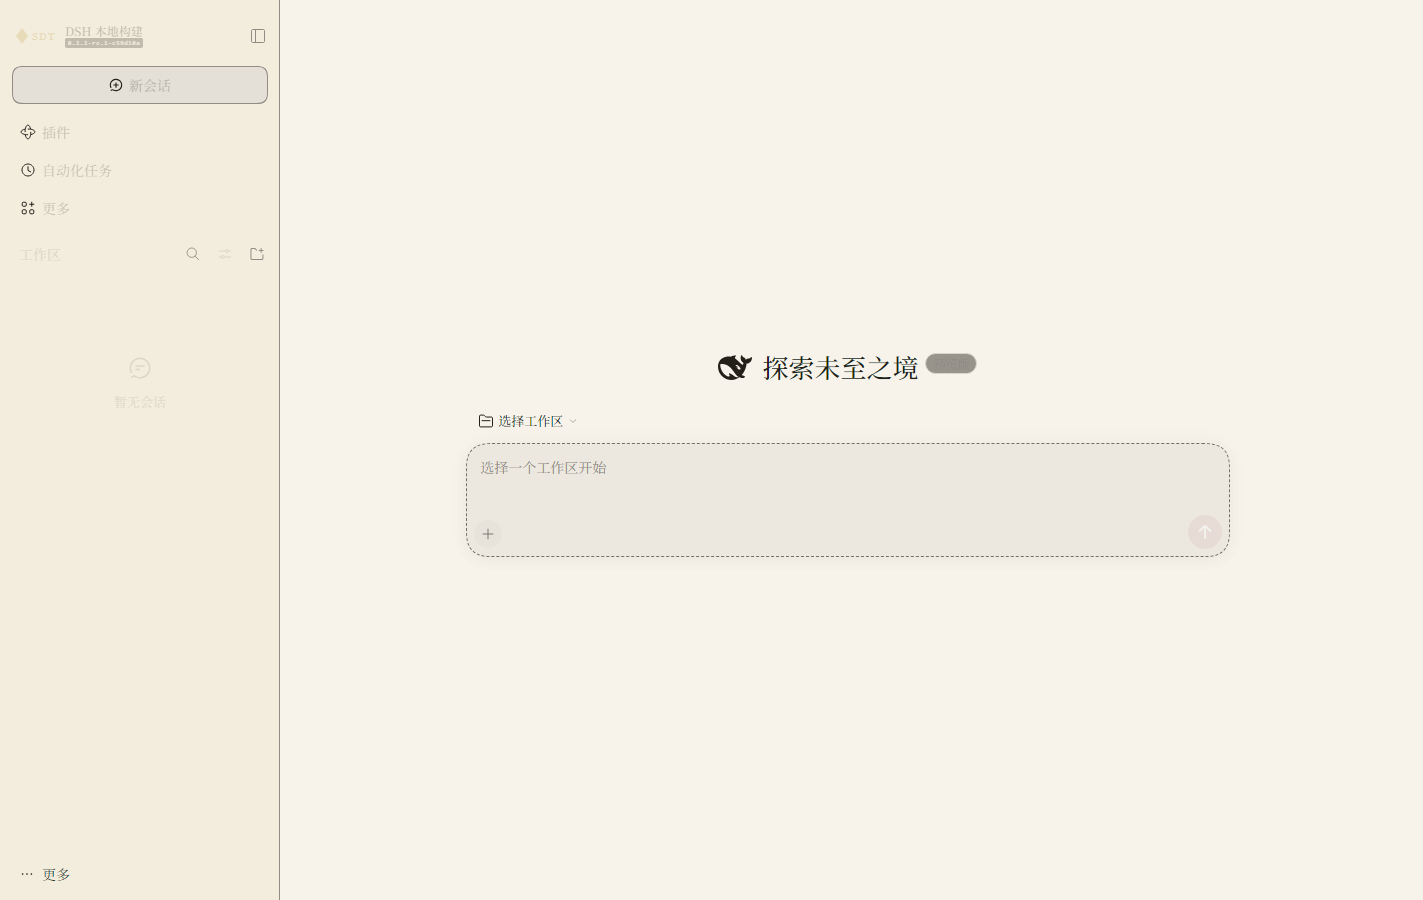
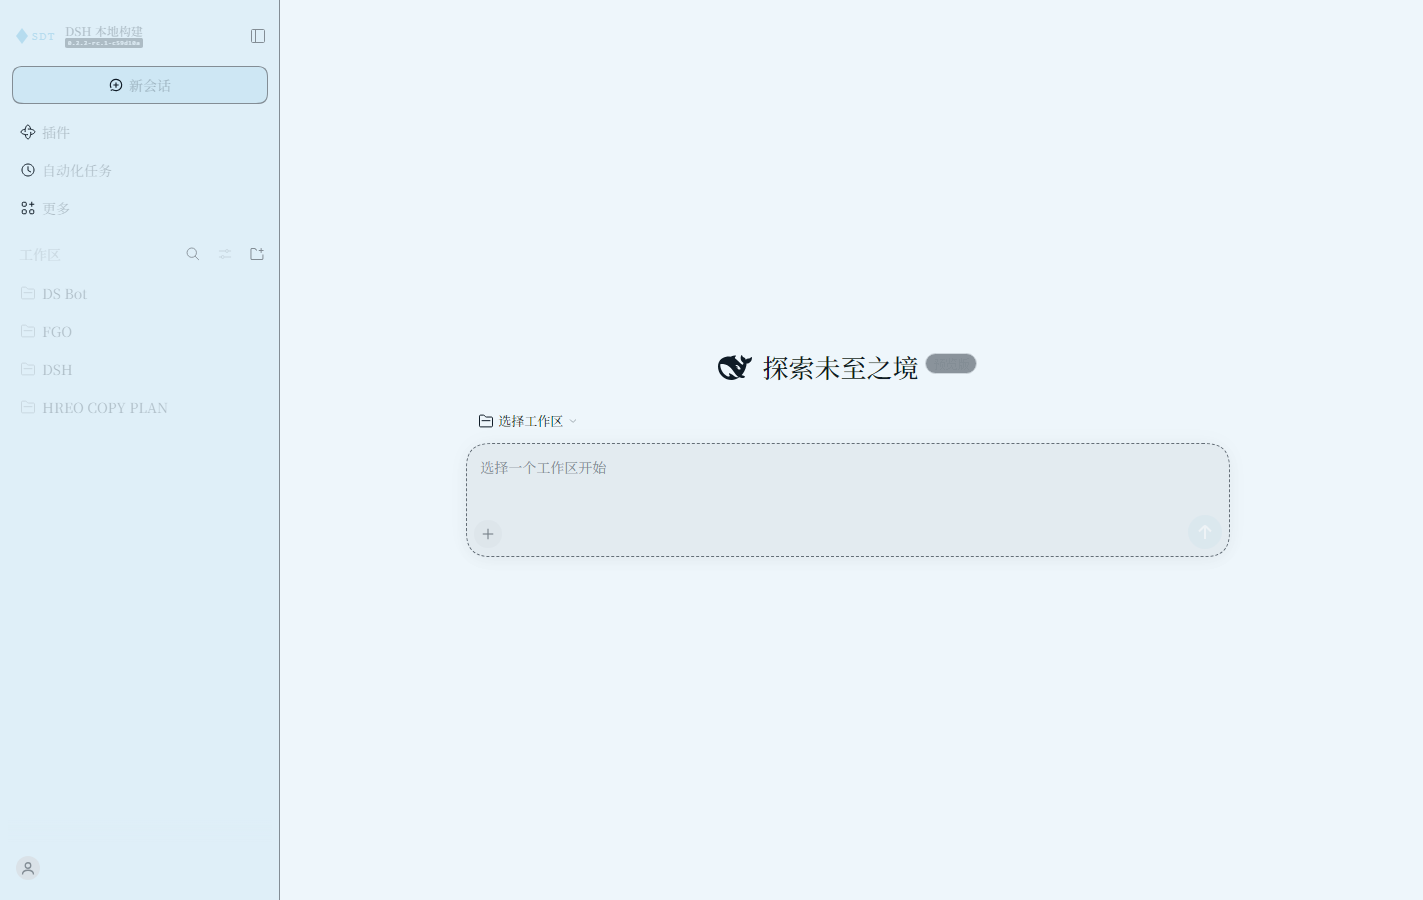
feat(v1.4): 配色修正 —— 金色主色改为蓝青主色（对齐 FGO 界面语汇）
- 色板：brand #37a3d6 / accent #1f6fa8 / bgDark #0a1626 / bgLight #eef6fb
- 按钮表面（elevated/floating/tool-bar/hover/active）由中性灰改青蓝浅染
- 菱格底纹 0.06 -> 0.09；金色降级为可选框线（此前把金当主色是判断错误）
- 截图更新（深/浅各一张，1423x900）；覆盖仍 133/133；自验证 7/7
- 计划顺延：L3/图标/设置卡 -> v1.5；覆盖层 -> v1.6；开屏/壁纸/皮肤中心/安全 -> v1.7

Changed region(s): [[0.0, 0.0, 0.2164, 1.0], [0.8349, 0.56, 0.8658, 0.6222]]

diff --git a/plugin/client.js b/plugin/client.js
@@ -39,9 +39,12 @@ window.__ModuleLoader__.load({
     const BASELINE_TOKENS = ["--dsw-alias-bg-base", "--dsw-alias-bg-document-preview", "--dsw-alias-bg-document-selection", "--dsw-alias-bg-l1", "--dsw-alias-bg-layer-1", "--dsw-alias-bg-layer-2", "--dsw-alias-bg-layer-3", "--dsw-alias-bg-layer-4", "--dsw-alias-bg-mask-1", "--dsw-alias-bg-mask-2", "--dsw-alias-bg-mask-3", "--dsw-alias-bg-mask-drop", "--dsw-alias-bg-mask-photo", "--dsw-alias-bg-module-platform", "--dsw-alias-bg-multi-select", "--dsw-alias-bg-overlay", "--dsw-alias-bg-skeleton", "--dsw-alias-border-inverted", "--dsw-alias-border-inverted2", "--dsw-alias-border-l1", "--dsw-alias-border-l2", "--dsw-alias-border-l2-darkmode-thin", "--dsw-alias-border-l3", "--dsw-alias-border-l4", "--dsw-alias-brand-primary", "--dsw-alias-brand-primary-invert", "--dsw-alias-brand-primary-new-colorprimary-new-color", "--dsw-alias-brand-text", "--dsw-alias-button-contrast-fill", "--dsw-alias-button-elevated-fill", "--dsw-alias-button-floating-fill", "--dsw-alias-button-floating-hover", "--dsw-alias-button-ghost-active-border", "--dsw-alias-button-ghost-active-fill", "--dsw-alias-button-ghost-active-hover", "--dsw-alias-button-info-fill", "--dsw-alias-button-info-hover", "--dsw-alias-button-primary-dimmed", "--dsw-alias-button-primary-fill", "--dsw-alias-button-primary-hover", "--dsw-alias-button-tool-bar-fill", "--dsw-alias-button-tool-bar-fill-invisible", "--dsw-alias-button-tool-bar-hover", "--dsw-alias-code-diff-added", "--dsw-alias-code-diff-deleted", "--dsw-alias-file-diff-added-bg", "--dsw-alias-file-diff-added-gutter", "--dsw-alias-file-diff-added-marker", "--dsw-alias-file-diff-deleted-bg", "--dsw-alias-file-diff-deleted-gutter", "--dsw-alias-file-diff-deleted-marker", "--dsw-alias-fill-l1", "--dsw-alias-fill-l2", "--dsw-alias-fill-tertiary", "--dsw-alias-fill-tsp-secondary", "--dsw-alias-illustration-background", "--dsw-alias-illustration-backing", "--dsw-alias-illustration-detail", "--dsw-alias-illustration-inset", "--dsw-alias-illustration-shadow", "--dsw-alias-illustration-surface", "--dsw-alias-interactive-bg-active", "--dsw-alias-interactive-bg-hover", "--dsw-alias-interactive-bg-hover-accent", "--dsw-alias-interactive-bg-hover-danger", "--dsw-alias-interactive-bg-hover-solid", "--dsw-alias-label-caption", "--dsw-alias-label-deep-diving", "--dsw-alias-label-deep-diving-shimmer", "--dsw-alias-label-dimmed", "--dsw-alias-label-document-preview", "--dsw-alias-label-error", "--dsw-alias-label-primary", "--dsw-alias-label-primary-bluish", "--dsw-alias-label-primary-dimmed", "--dsw-alias-label-primary-foreground", "--dsw-alias-label-primary-inverted", "--dsw-alias-label-quaternary", "--dsw-alias-label-secondary", "--dsw-alias-label-shimmer", "--dsw-alias-label-tertiary", "--dsw-alias-link", "--dsw-alias-markdown-citation", "--dsw-alias-markdown-code-block", "--dsw-alias-markdown-code-block-banner", "--dsw-alias-markdown-code-segment-selected", "--dsw-alias-markdown-code-segment-unselected", "--dsw-alias-markdown-inline-code", "--dsw-alias-markdown-placeholder", "--dsw-alias-markdown-tag", "--dsw-alias-menu-group-header-fill", "--dsw-alias-menu-icon", "--dsw-alias-onboarding-accent", "--dsw-alias-onboarding-card-fill", "--dsw-alias-onboarding-checkbox-border", "--dsw-alias-onboarding-secondary-fill", "--dsw-alias-scrollbar-bg-l1", "--dsw-alias-scrollbar-bg-l2", "--dsw-alias-scrollbar-hover-l1", "--dsw-alias-scrollbar-hover-l2", "--dsw-alias-separator-primary", "--dsw-alias-settings-card-fill", "--dsw-alias-settings-card-stroke", "--dsw-alias-state-business-primary", "--dsw-alias-state-business-tertiary", "--dsw-alias-state-done-primary", "--dsw-alias-state-error-primary", "--dsw-alias-state-error-secondary", "--dsw-alias-state-idle-primary", "--dsw-alias-state-success-primary", "--dsw-alias-state-success-secondary", "--dsw-alias-state-success-tertiary", "--dsw-alias-state-warn-label", "--dsw-alias-state-warn-primary", "--dsw-alias-state-warn-secondary", "--dsw-alias-state-warn-tertiary", "--dsw-alias-switch-thumb", "--dsw-alias-toast-bg", "--dsw-alias-toast-label", "--dsw-alias-tooltip-bg", "--dsw-alias-tooltip-key-bg", "--dsw-alias-turn-trigger-bg", "--dsw-alias-turn-trigger-bg-hover", "--dsw-specific-bubble", "--dsw-specific-bubble-highlight", "--dsw-specific-input-major", "--dsw-specific-login-input", "--dsw-specific-menu", "--dsw-specific-selector", "--dsw-specific-sidebar-fill", "--dsw-specific-sidebar-nav-item-active", "--dsw-specific-sidebar-nav-item-active-accent", "--dsw-specific-tip"];
 
     const DEFAULTS = {
-      brand: "#c8a24a", accent: "#a3262f",
-      bgLight: "#f7f3ea", bgDark: "#0d1117",
-      inkLight: "#231f19", inkDark: "#e9e6df",
+      brand: "#37a3d6",        // 青蓝主色（截图里的按钮描边 / 高亮）
+      accent: "#1f6fa8",       // 深蓝（悬停 / 次级强调）
+      bgLight: "#eef6fb",      // 冰蓝白
+      bgDark: "#0a1626",       // 深海军蓝
+      inkLight: "#0f1b26",
+      inkDark: "#dbeaf5",
     };
 
     /* ---------------- 语义调色板（明/暗各一份） ---------------- */
@@ -113,10 +116,9 @@ window.__ModuleLoader__.load({
       }
       if (n.startsWith("button-")) {
         if (has("contrast")) return "ink";
-        if (has("info")) return "accentSoft";
-        if (has("hover", "active")) return "layer3";
         if (has("invisible", "ghost")) return "overlay";
-        return "layer2";
+        if (has("hover", "active")) return "brandSoft";
+        return "brandSoft";
       }
       if (n.startsWith("code-diff") || n.startsWith("file-diff")) {
         if (has("added")) return "success";
@@ -221,8 +223,9 @@ window.__ModuleLoader__.load({
       const p = palette(colors, "dark");
       return `:root{
   --bj-gold: ${colors.brand};
-  --bj-gold-line: ${rgba(colors.brand, 0.55)};
-  --bj-gold-glow: ${rgba(colors.brand, 0.18)};
+  --bj-gold-line: ${rgba(colors.brand, 0.45)};
+  --bj-gold-glow: ${rgba(colors.brand, 0.16)};
+  --bj-frame-line: ${rgba(colors.accent, 0.35)};
   --bj-accent: ${colors.accent};
   --bj-radius-card: 10px;
   --bj-radius-control: 6px;
@@ -235,8 +238,8 @@ window.__ModuleLoader__.load({
 /* G6 菱格底纹（仅深色） */
 body[data-ds-dark-theme]{
   background-image:
-    repeating-linear-gradient(45deg, ${rgba(colors.brand, 0.05)} 0 1px, transparent 1px 18px),
-    repeating-linear-gradient(-45deg, ${rgba(colors.brand, 0.05)} 0 1px, transparent 1px 18px);
+    repeating-linear-gradient(45deg, ${rgba(colors.brand, 0.09)} 0 1px, transparent 1px 22px),
+    repeating-linear-gradient(-45deg, ${rgba(colors.brand, 0.09)} 0 1px, transparent 1px 22px);
   background-attachment: fixed;
 }
 /* G2 金色发丝线：只在稳定锚点上加边框，不动尺寸 */

diff --git a/plugin/lib/config.js b/plugin/lib/config.js
@@ -18,12 +18,12 @@ export const CONFIG_FILE_NAME = 'sdt.config.json';
 export const DEFAULT_CONFIG = Object.freeze({
   version: 1,
   colors: {
-    brand: '#c8a24a',
-    accent: '#a3262f',
-    bgLight: '#f7f3ea',
-    bgDark: '#0d1117',
-    inkLight: '#231f19',
-    inkDark: '#e9e6df',
+    brand: '#37a3d6',
+    accent: '#1f6fa8',
+    bgLight: '#eef6fb',
+    bgDark: '#0a1626',
+    inkLight: '#0f1b26',
+    inkDark: '#dbeaf5',
   },
   tokens: {},
   appearance: {

diff --git a/CHANGELOG.md b/CHANGELOG.md
@@ -13,6 +13,30 @@
 
 ---
 
+## v1.4 — 2026-11-23
+
+**配色修正：金色主色 → 蓝青主色（对齐 FGO 界面语汇）**。
+
+### Changed
+
+- 默认色板改为深海军蓝 + 青蓝：
+  `brand #37a3d6` / `accent #1f6fa8` / `bgDark #0a1626` / `bgLight #eef6fb` / `inkDark #dbeaf5` / `inkLight #0f1b26`
+- 按钮表面（elevated / floating / tool-bar / hover / active）改为青蓝浅染，不再是中性灰
+- 菱格底纹透明度 0.06 → 0.09；金色仅保留为字标与极细框线可选项
+
+### Verified（Web 端）
+
+- 深色截图 `docs/preview/theme-dark.png`：背景深海军蓝、侧栏青蓝字标 `SDT`、新会话按钮青蓝染
+- 浅色截图 `docs/preview/theme-light.png`：冰蓝白底
+- 覆盖仍为 133/133；自验证 7/7
+
+### Notes
+
+- 依据你提供的 FGO 终端截图：主色是青蓝、金只作细框与点缀 —— 前一版把金当主色是我判断错了
+- 后续版本号顺延：L3 密度/图标/设置卡 → v1.5；覆盖层 → v1.6；开屏/壁纸/皮肤中心/安全 → v1.7
+
+---
+
 ## v1.3 — 2026-11-23
 
 **L1 全覆盖 + L2 视觉语法 + 品牌字标（M3）**。
@@ -204,6 +228,7 @@
 
 | 版本 | 日期 | 内容 |
 |---|---|---|
+| **v1.4** | 2026-11-23 | 配色修正：蓝青主色 + 青蓝按钮表面（对齐 FGO 语汇） |
 | **v1.3** | 2026-11-23 | L1 133/133 全量 + L2 视觉语法 + M3 字标 + 实机截图 |
 | **v1.2** | 2026-11-23 | 默认主题成稿 + 模块化矩阵 + 阶段标记 |
 | **v1.1** | 2026-11-23 | 插件骨架落地：bundle + host/client 半边 + 配置与素材路由 + 14 token 实测生效 |

diff --git a/docs/PLAN-2026-11-23.md b/docs/PLAN-2026-11-23.md
@@ -80,7 +80,8 @@
 | 版本 | 内容 | 预计 | 必须实测 | 回滚点 |
 |---|---|---|---|---|
 | **v1.3 ✅** | L1 全量 133 token（深色为主 + 派生浅色）+ L2 六区块（G1/G2/G3/G5/G6 语法落地）+ **M3 字标** + **桌面首次实机验证** | 3 天 | 桌面截图；每个 token 找到消费元素；对比度自检 | `stage-04-v1.3` |
-| **v1.4** | L3 密度体系（含 G4 菱形图标风格）+ **M5 图标 12–20 个** + **M4 只读设置卡** | 2 天 | 980×640 不破版；图标无破图 | `stage-05-v1.4` |
+| **v1.4 ✅** | 配色修正：蓝青主色（对齐 FGO 语汇） | 0.5 天 | 截图对比 + 覆盖不变 | `stage-05-v1.4` |
+| v1.5 | L3 密度体系（含 G4 菱形图标风格）+ **M5 图标 12–20 个** + **M4 只读设置卡** | 2 天 | 980×640 不破版；图标无破图 | `stage-05-v1.4` |
 | **v1.5** | **M1 覆盖层** + **M2 输入 dock** + 点击特效（借 bafx） | 2 天 | 可开关、卸载无残留、遮挡检查 | `stage-06-v1.5` |
 | **v1.6** | **M9 开屏** + **M6 壁纸/玻璃** + **M7 主题包/皮肤中心** + **M8 安全模式** + **M4 可交互设置** | 3 天 | 刷新去重；坏包回退；性能 | `stage-07-v1.6` |
 | **v1.7** | 桌面专项：首帧实测结论 + 桌面差异修正 +（可选）**M10 Skill** | 1–2 天 | `MODULARITY.md` 增"桌面端"列 | `stage-08-v1.7` |

diff --git a/README.md b/README.md
@@ -1,6 +1,6 @@
 # DSH-SDT
 
-<img alt="version" src="https://img.shields.io/badge/version-v1.3-2ea44f?style=flat-square">
+<img alt="version" src="https://img.shields.io/badge/version-v1.4-2ea44f?style=flat-square">
 <img alt="dsh" src="https://img.shields.io/badge/DSH-0.2.2--rc.1-1f6feb?style=flat-square">
 
 **DeepSeek Harness 主题插件**：提供一套默认 FGO 风格主题，并以此为探针，测量 DSH 的模块化自定义上限。
@@ -32,8 +32,8 @@ dsh plugin --profile web add dsh-sdt               # 发布后
 |---|---|
 | v1.0 | 合同与实测基线（DSH 0.2.2-rc.1：4 条接缝、14 项 token、插件契约） |
 | v1.1 | 插件骨架：bundle / host + client 半边 / 配置与素材路由 / 14 token 生效 |
-| **v1.3** | **L1 133/133 全量覆盖 + L2 语法 + 品牌字标 + 实机截图** |
-| 下一阶段 | v1.4：L3 密度 + 图标替换（M5）+ 设置只读卡（M4） |
+| **v1.4** | **蓝青配色定版（对齐 FGO 语汇）+ 133/133 token + 字标 + 实机截图** |
+| 下一阶段 | v1.5：L3 密度 + 图标替换（M5）+ 设置只读卡（M4） |
 
 ## 文档
 

diff --git a/docs/JOURNAL.md b/docs/JOURNAL.md
@@ -15,6 +15,28 @@
 
 ---
 
+## 2026-11-23 · 阶段 5 · v1.4 —— 蓝青配色定版
+
+**做了什么**
+
+- 主色由金改为青蓝（`#37a3d6`），深底改深海军蓝（`#0a1626`），浅色改冰蓝白（`#eef6fb`）。
+- 按钮表面（elevated/floating/tool-bar/hover/active）由中性灰改为青蓝浅染。
+- 菱格底纹透明度 0.09；金色降级为可选框线。
+
+**验证（Web 端）**
+
+| 项 | 结果 |
+|---|---|
+| 覆盖 | ✅ 133/133 |
+| 深色 | ✅ 深海军蓝底 + 青蓝字标 + 青蓝按钮 |
+| 浅色 | ✅ 冰蓝白底 |
+| 截图 | ✅ 1423×900 headless Edge |
+| 自验证 | ✅ 7/7 |
+
+**回滚点**：`stage-05-v1.4`
+
+---
+
 ## 2026-11-23 · 阶段 4 · v1.3 —— L1 全量 + L2 语法 + 字标
 
 **做了什么**
